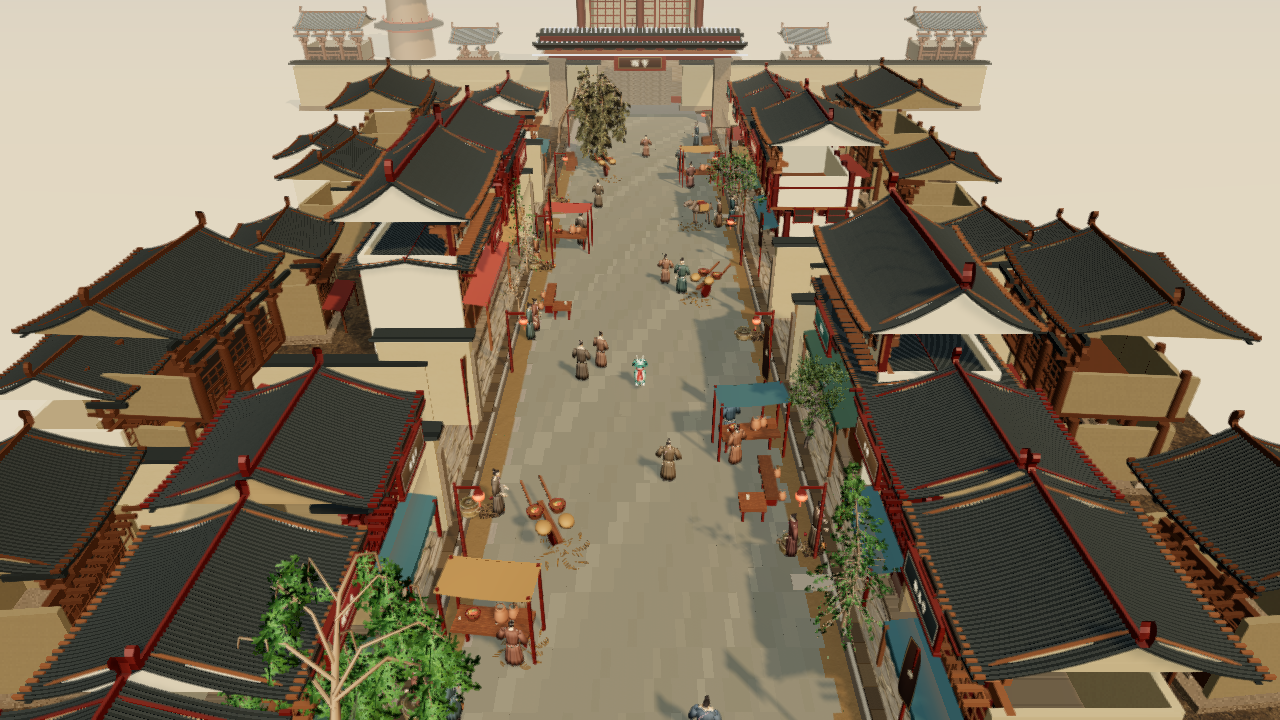
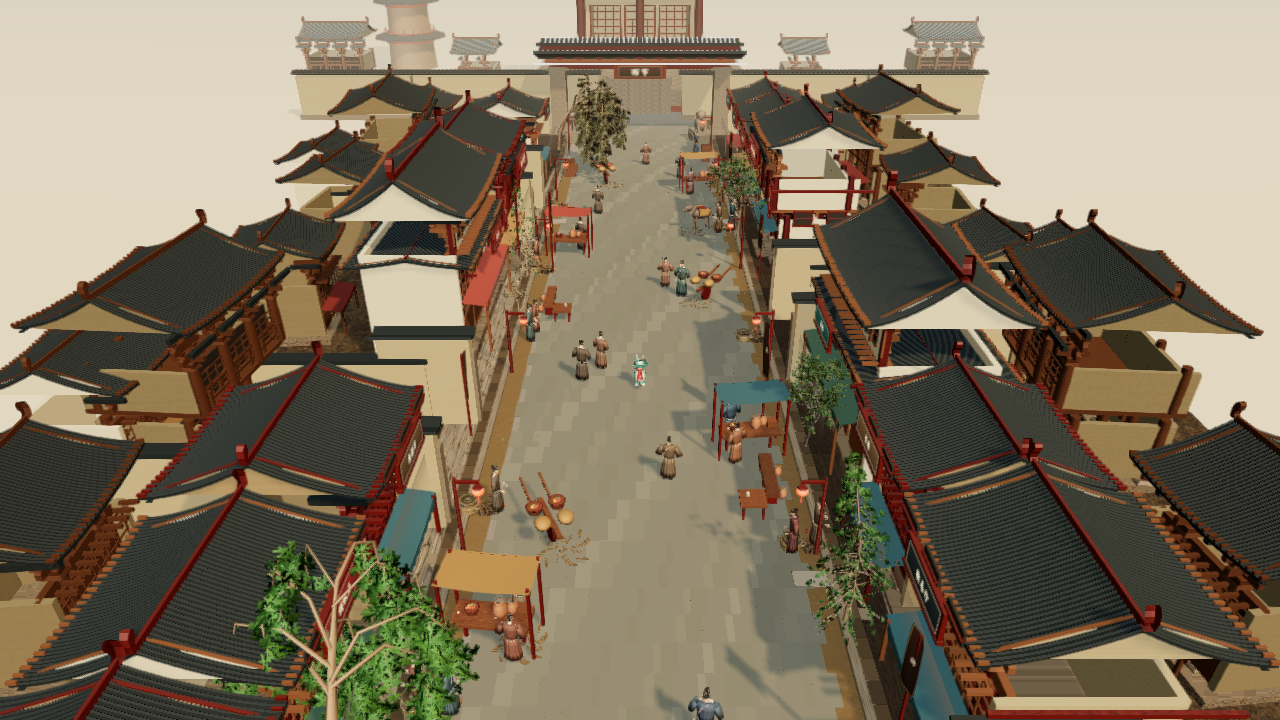
Record the failed far-hill attempt and refresh the evidence

diff --git a/docs/REBUILD_PLAN.md b/docs/REBUILD_PLAN.md
@@ -671,6 +671,24 @@
 - 复审 1280×720 / 844×390 均 passed，3876/3906 calls、约 335/339 万三角形；
   基座重叠 0，24 间全部测到。
 
+### 同轮：远山尝试失败并回退（建筑第二十五轮）
+
+- **先纠正一处自己的说法**：我之前说"天空是均匀浅米色"不准确。
+  `createSky` 已有三层渐变（青 / 中景 / 地平线暖色）的 shader。
+  真正缺的是**天际线以上没有任何远景**——远处只有一层平直的天色。
+- 目标：在雾的可见区间内补一圈远山轮廓。**两次尝试都失败，已回退**：
+  1. 一排锥体：读成纸板剪影、整齐锯齿，而且压住建筑。
+  2. 连续山脊条带：半径 96m 的实体条带在俯瞰里横穿街道，
+     把右侧铺装挡成一片褐色土带，直接破坏街景。
+- **回退后确认当前状态健康**：desktop / landscape 均 passed，
+  3876/3906 calls、约 335/339 万三角形、minGap 0.12、glError=0。
+- **教训**：远山这类"背景元素"放在 96-138m 半径会与街道本身的空间冲突，
+  正确做法应是把山放在雾的完全遮蔽区之外并单独关闭雾对它生效，
+  或改用与天空 shader 合一的做法（在天空球里画山脊），
+  而不是往场景里塞实体几何。下一轮若再做，走天空 shader 这条路。
+- 另记：回退后一次截图仍显示褐色土带，是浏览器缓存了旧脚本造成的假象，
+  重拍一次即正常——判断回归前要先排除缓存。
+
 ## 决策记录
 
 - 构件几何统一以"底面 z=0"为基准，便于按层堆叠与复用。
